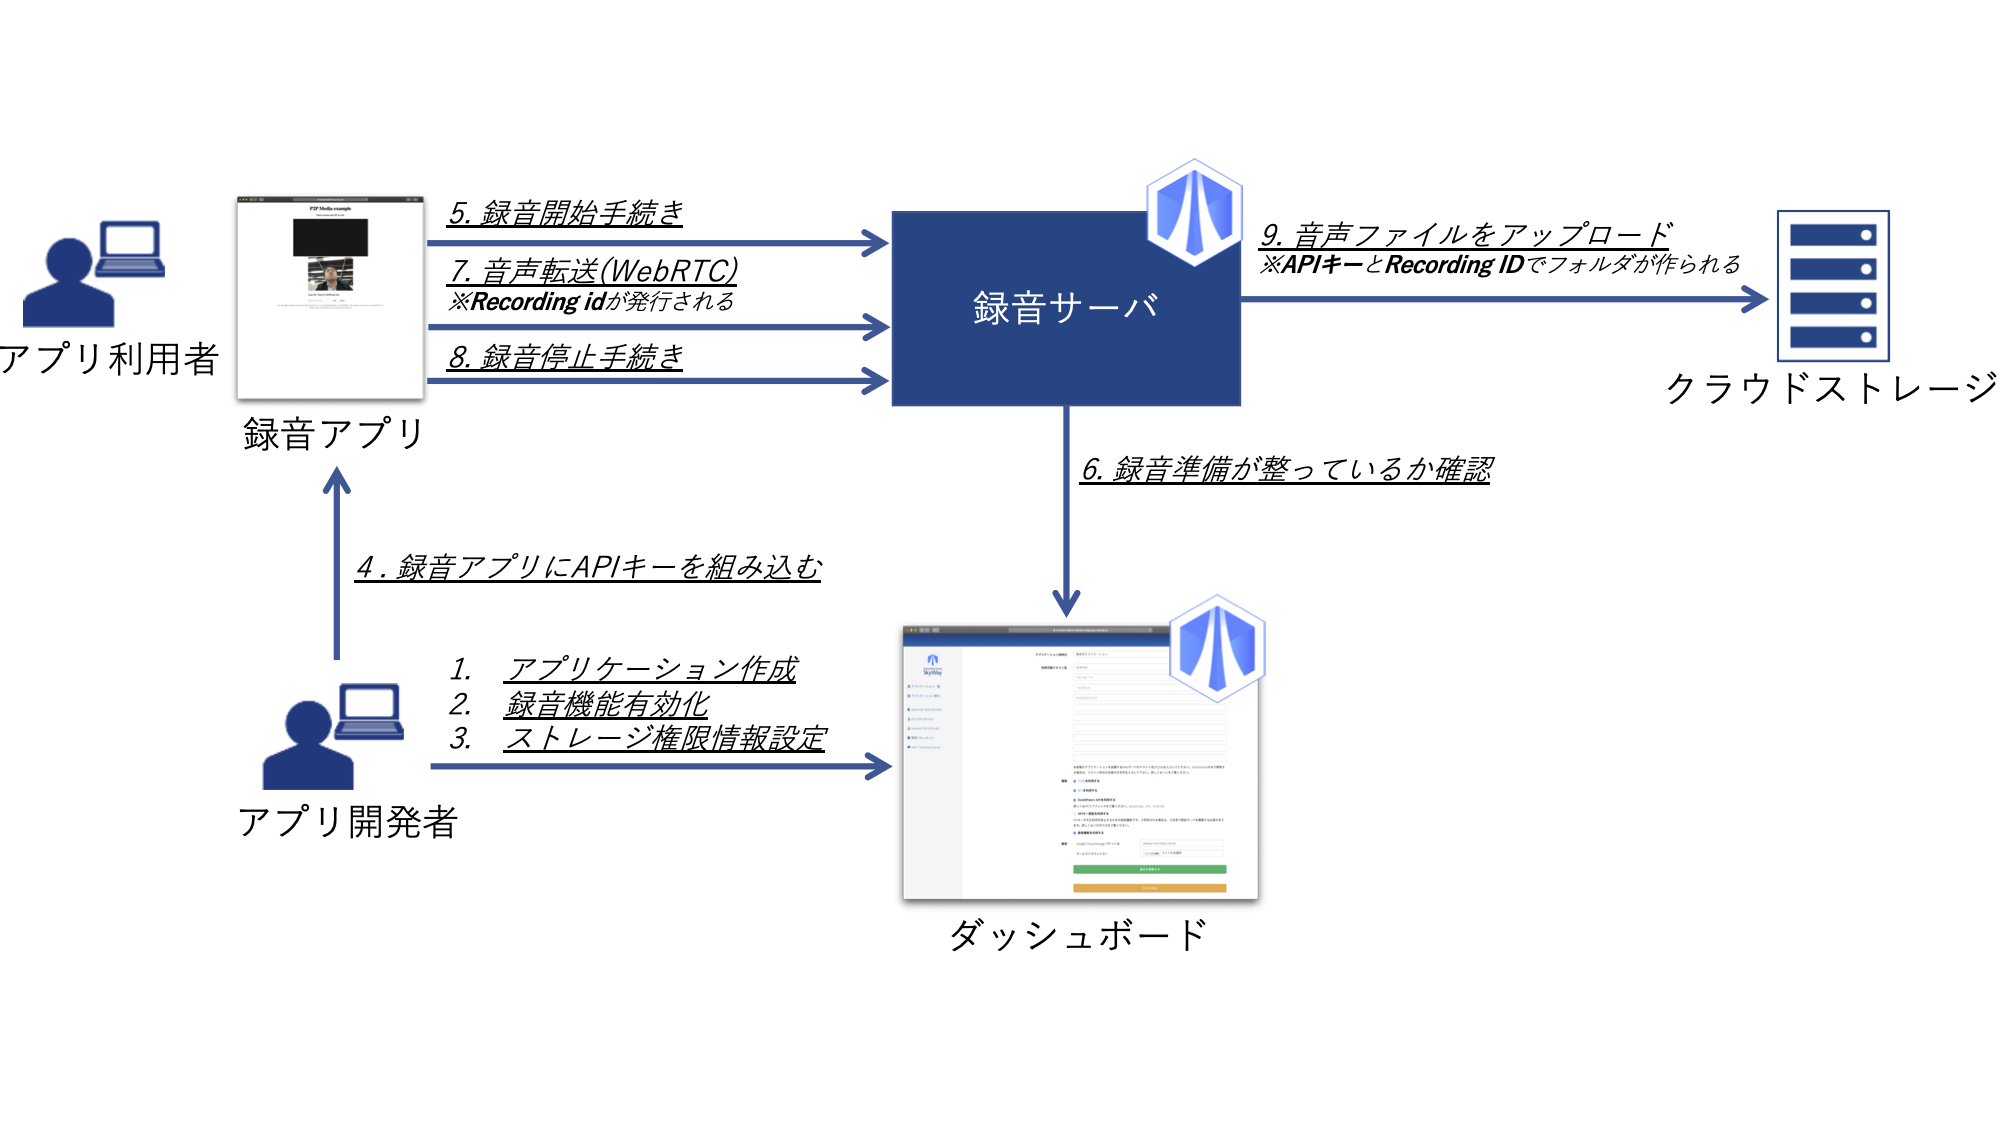
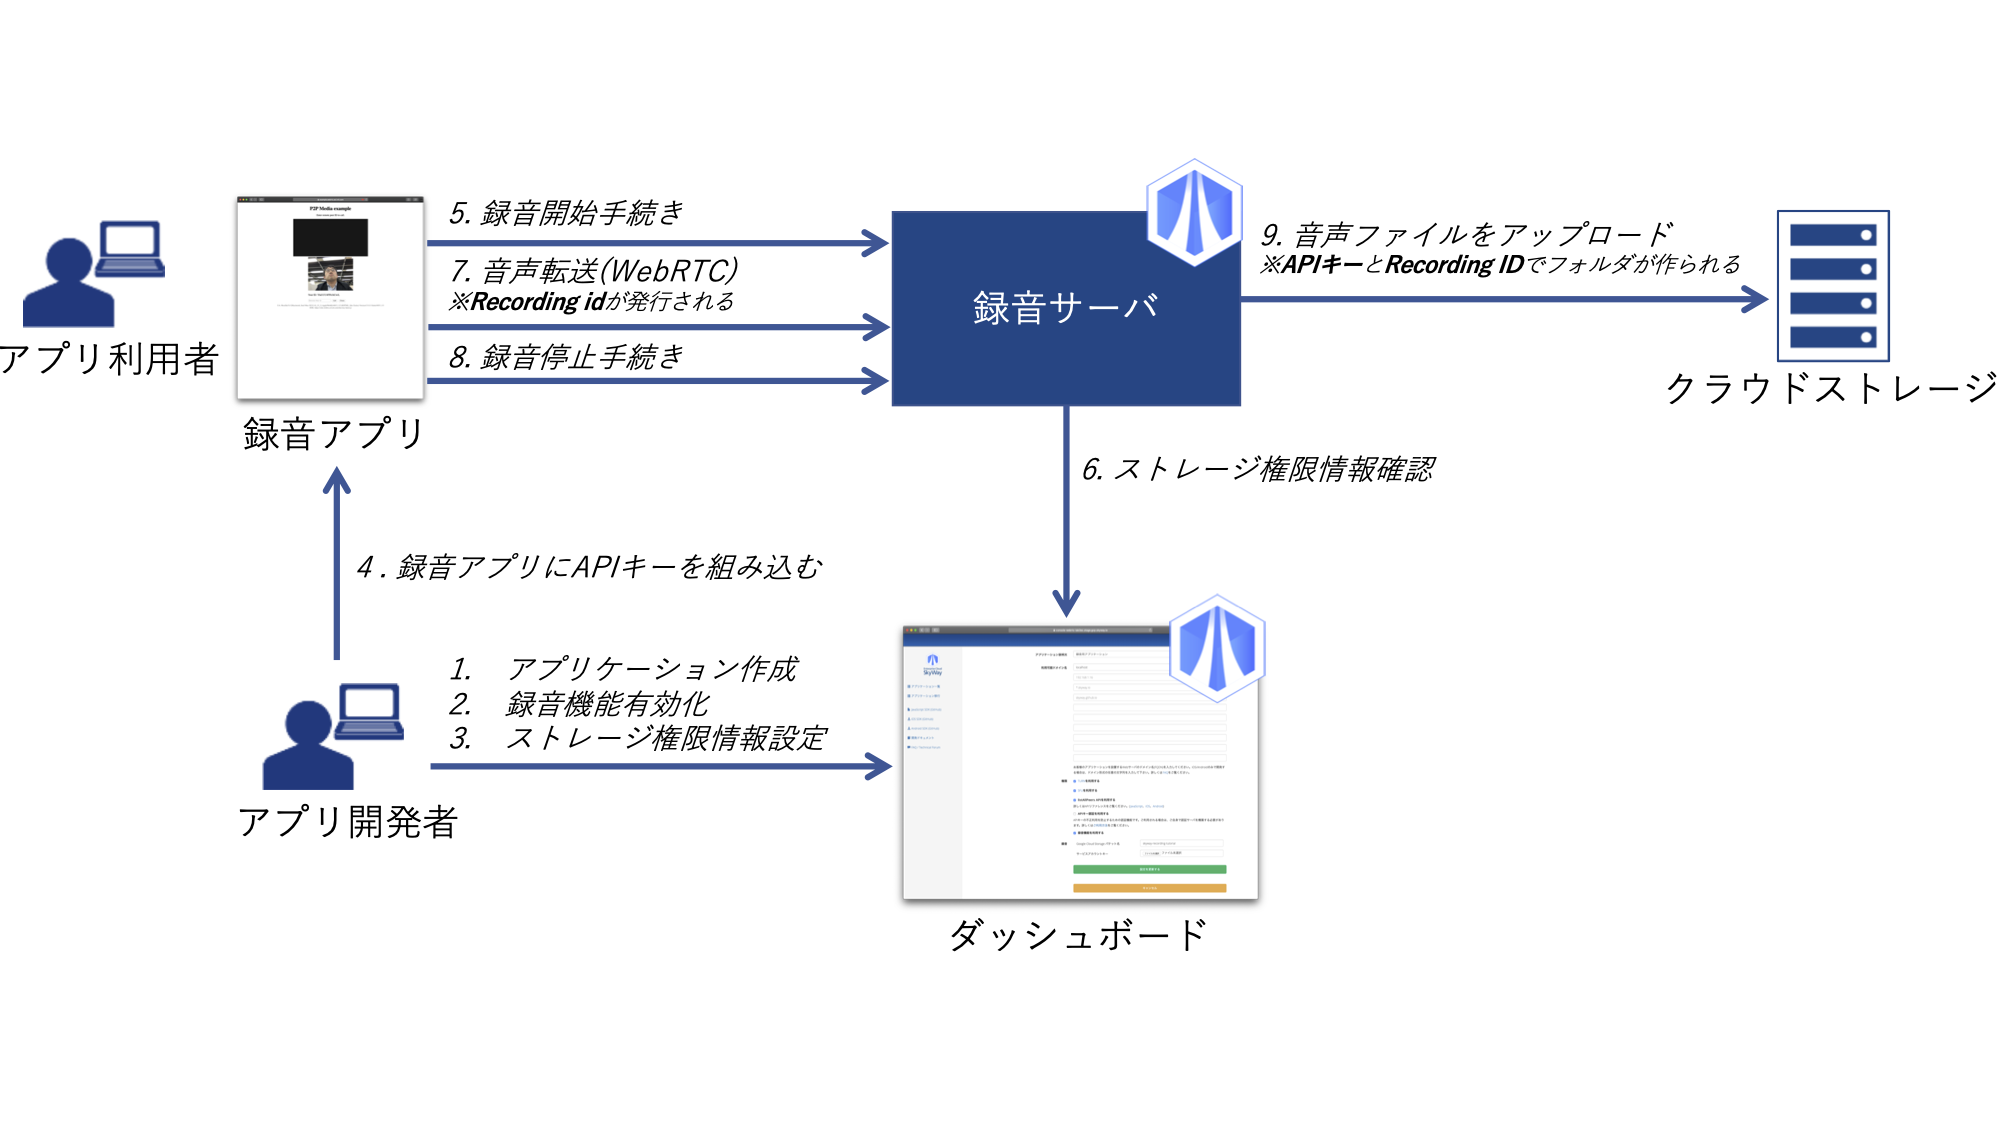
録音ページの画像差し替えと文言修正

Changed region(s): [[0.558, 0.4044, 0.744, 0.4356]]

diff --git a/recording.md b/recording.md
@@ -8,14 +8,13 @@ breadcrumb: [index.md, developer.md]
 # 録音について
 
 この機能は、Recorder SDKを利用して開発された録音アプリの音声を、WebRTCで録音サーバに転送し、音声ファイルとしてお客様のクラウドストレージにアップロードするものです。  
-利用するためには、Enterprise Editionのご契約が必要となります。
-対応するクラウドストレージは**[Google Cloud Strage](https://cloud.google.com/storage/){:target="_blank"}**のみとなります。  
-この機能は当面無料で利用可能ですが、将来、提供料金が変更になる可能性があります。その際は、事前に当サイトにてお知らせ致します。
+利用するためには、Enterprise Editionのご契約とクラウドストレージの用意が必要となります。対応するクラウドストレージは**[Google Cloud Strage](https://cloud.google.com/storage/){:target="_blank"}**のみとなります。  
+この機能は**当面無料で利用可能**ですが、将来、提供料金が変更になる可能性があります。その際は、事前に当サイトにてお知らせします。また、この機能は**SLA対象外**となります。
 
 <figure class="figure">
   <img src="{{ site.baseurl }}/images/recording_details.png"
     class="figure-img img-fluid rounded" alt="録音の仕組み">
-  <figcaption class="figure-caption">録音の仕組み</figcaption>
+  <figcaption class="figure-caption">録音の流れ</figcaption>
 </figure>
 
 ## 利用方法

diff --git a/en/recording.md b/en/recording.md
@@ -8,9 +8,8 @@ breadcrumb: [en/index.md, en/developer.md]
 # 録音について
 
 この機能は、Recorder SDKを利用して開発された録音アプリの音声を、WebRTCで録音サーバに転送し、音声ファイルとしてお客様のクラウドストレージにアップロードするものです。  
-利用するためには、Enterprise Editionのご契約が必要となります。
-対応するクラウドストレージは**[Google Cloud Strage](https://cloud.google.com/storage/){:target="_blank"}**のみとなります。  
-この機能は当面無料で利用可能ですが、将来、提供料金が変更になる可能性があります。その際は、事前に当サイトにてお知らせ致します。
+利用するためには、Enterprise Editionのご契約とクラウドストレージの用意が必要となります。対応するクラウドストレージは**[Google Cloud Strage](https://cloud.google.com/storage/){:target="_blank"}**のみとなります。  
+この機能は**当面無料で利用可能**ですが、将来、提供料金が変更になる可能性があります。その際は、事前に当サイトにてお知らせします。また、この機能は**SLA対象外**となります。
 
 <figure class="figure">
   <img src="{{ site.baseurl }}/images/recording_details.png"
